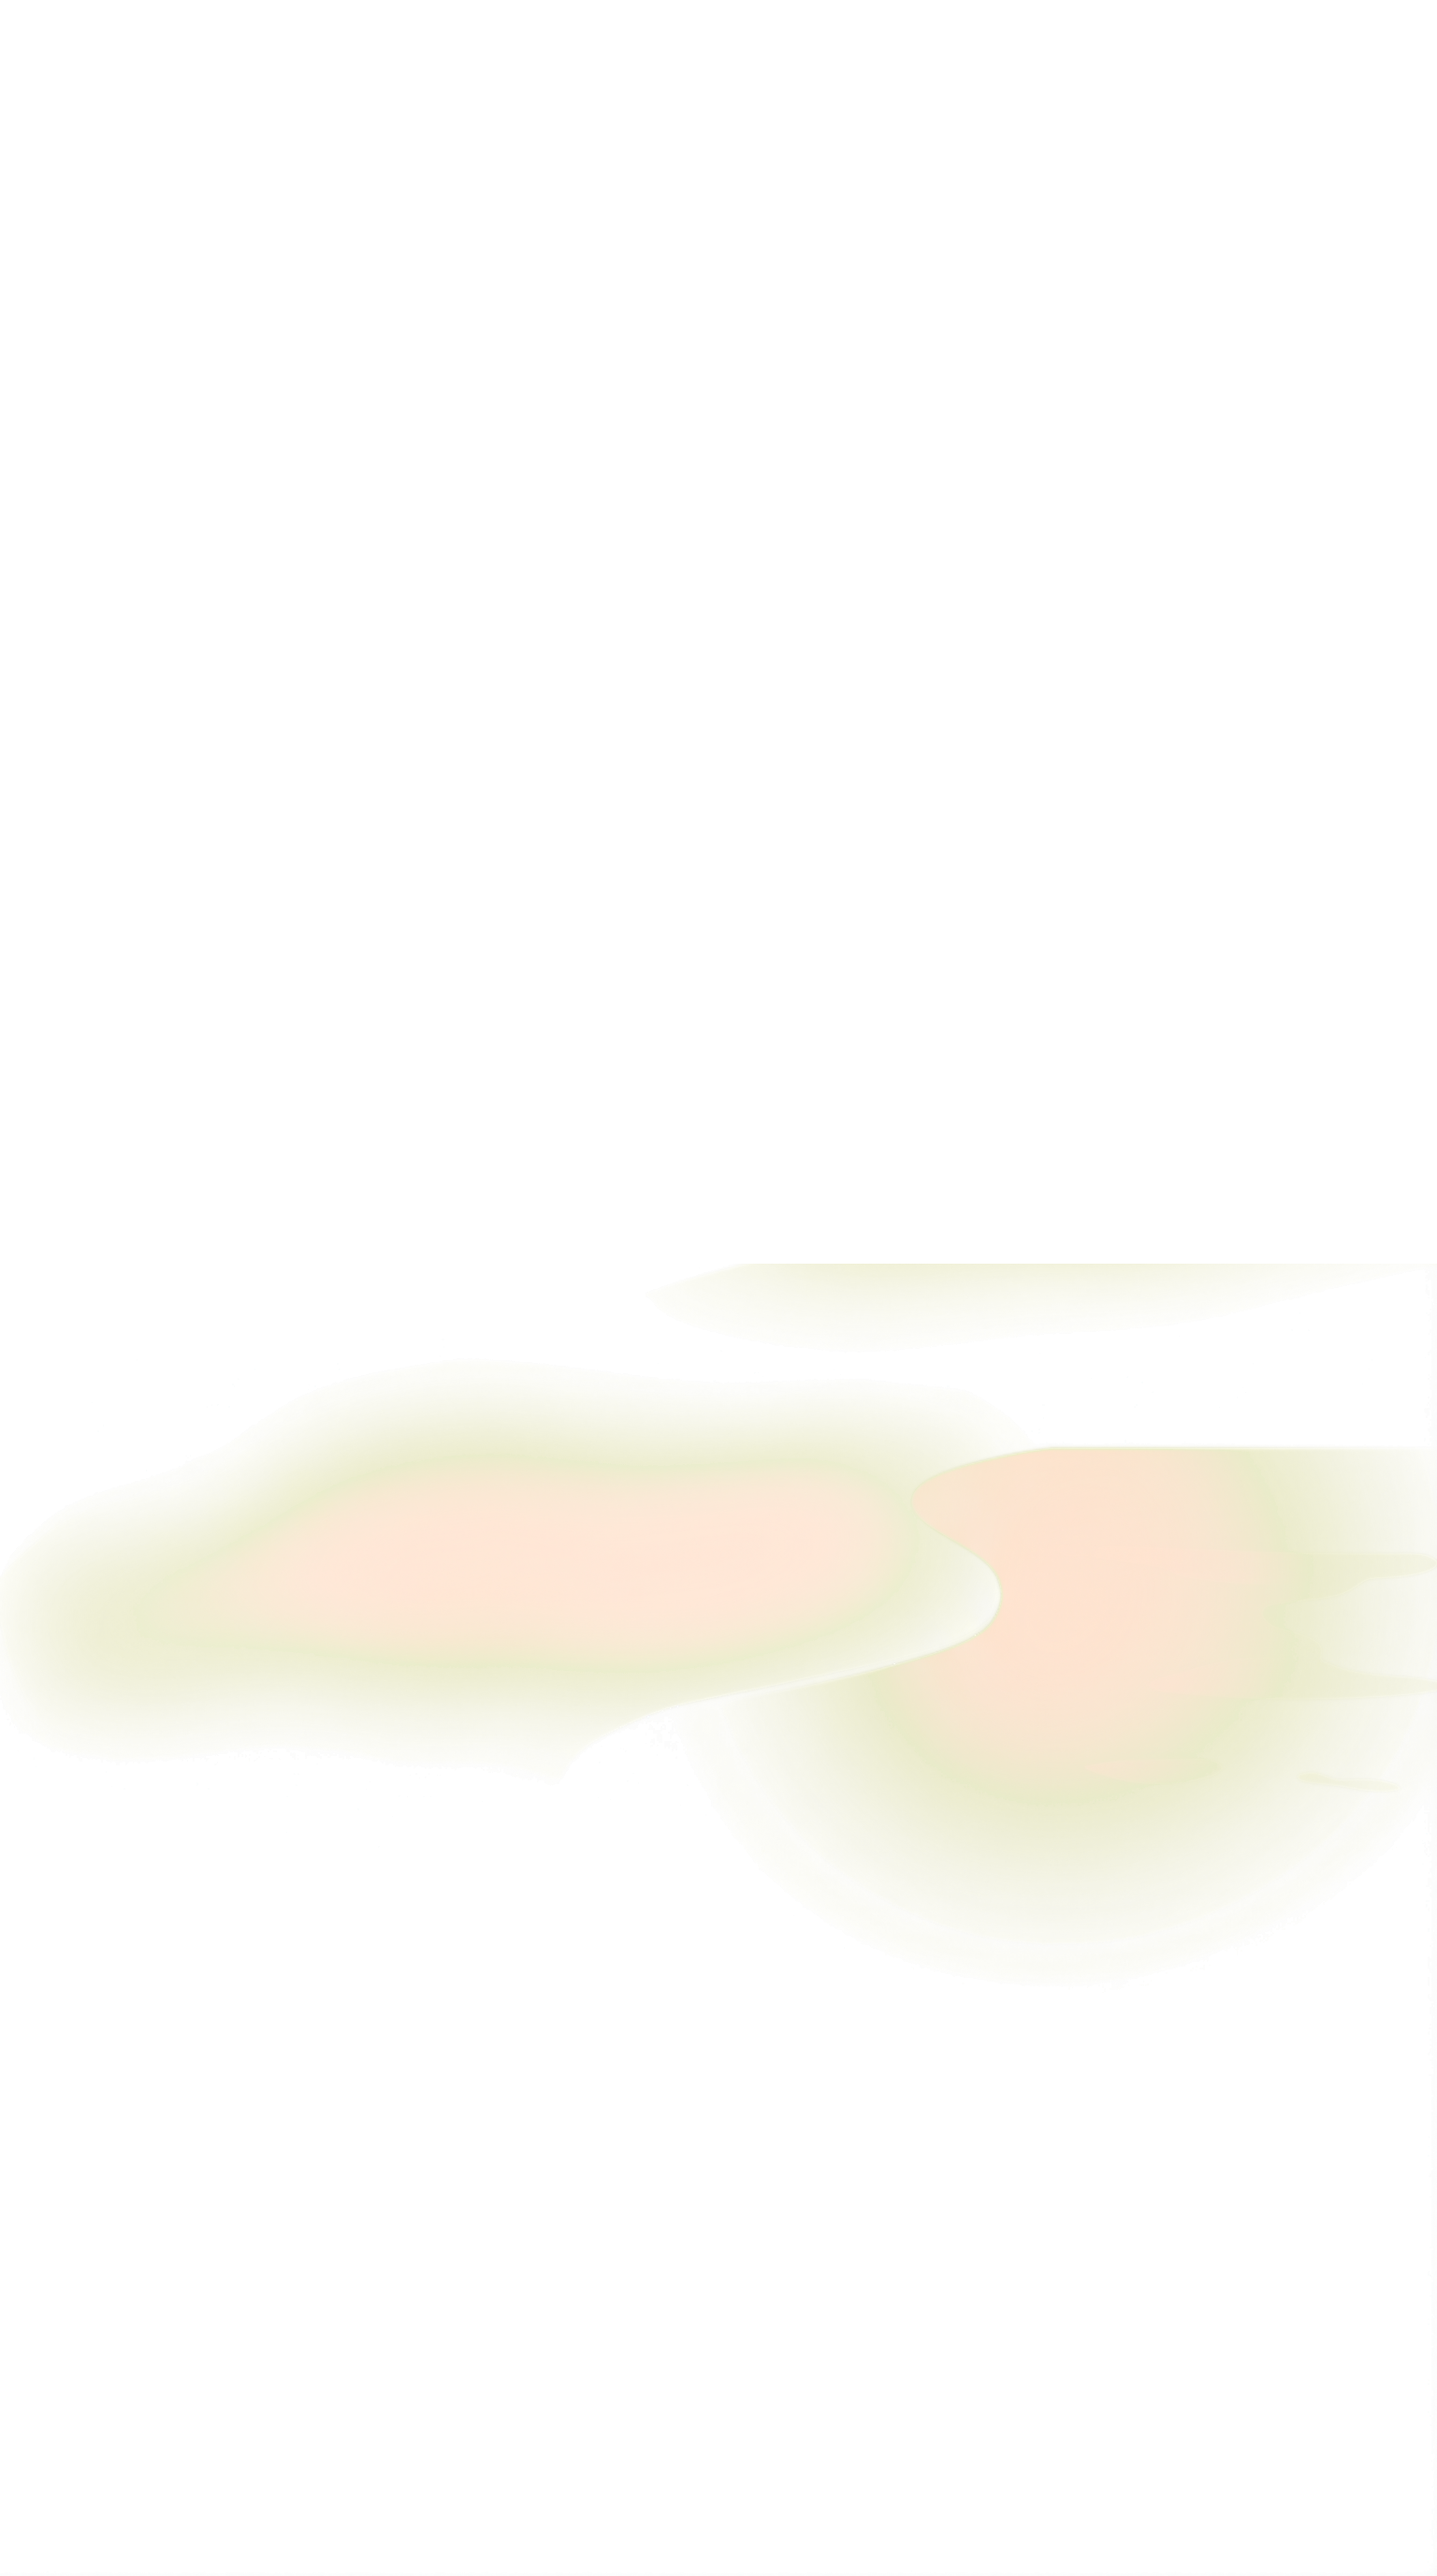
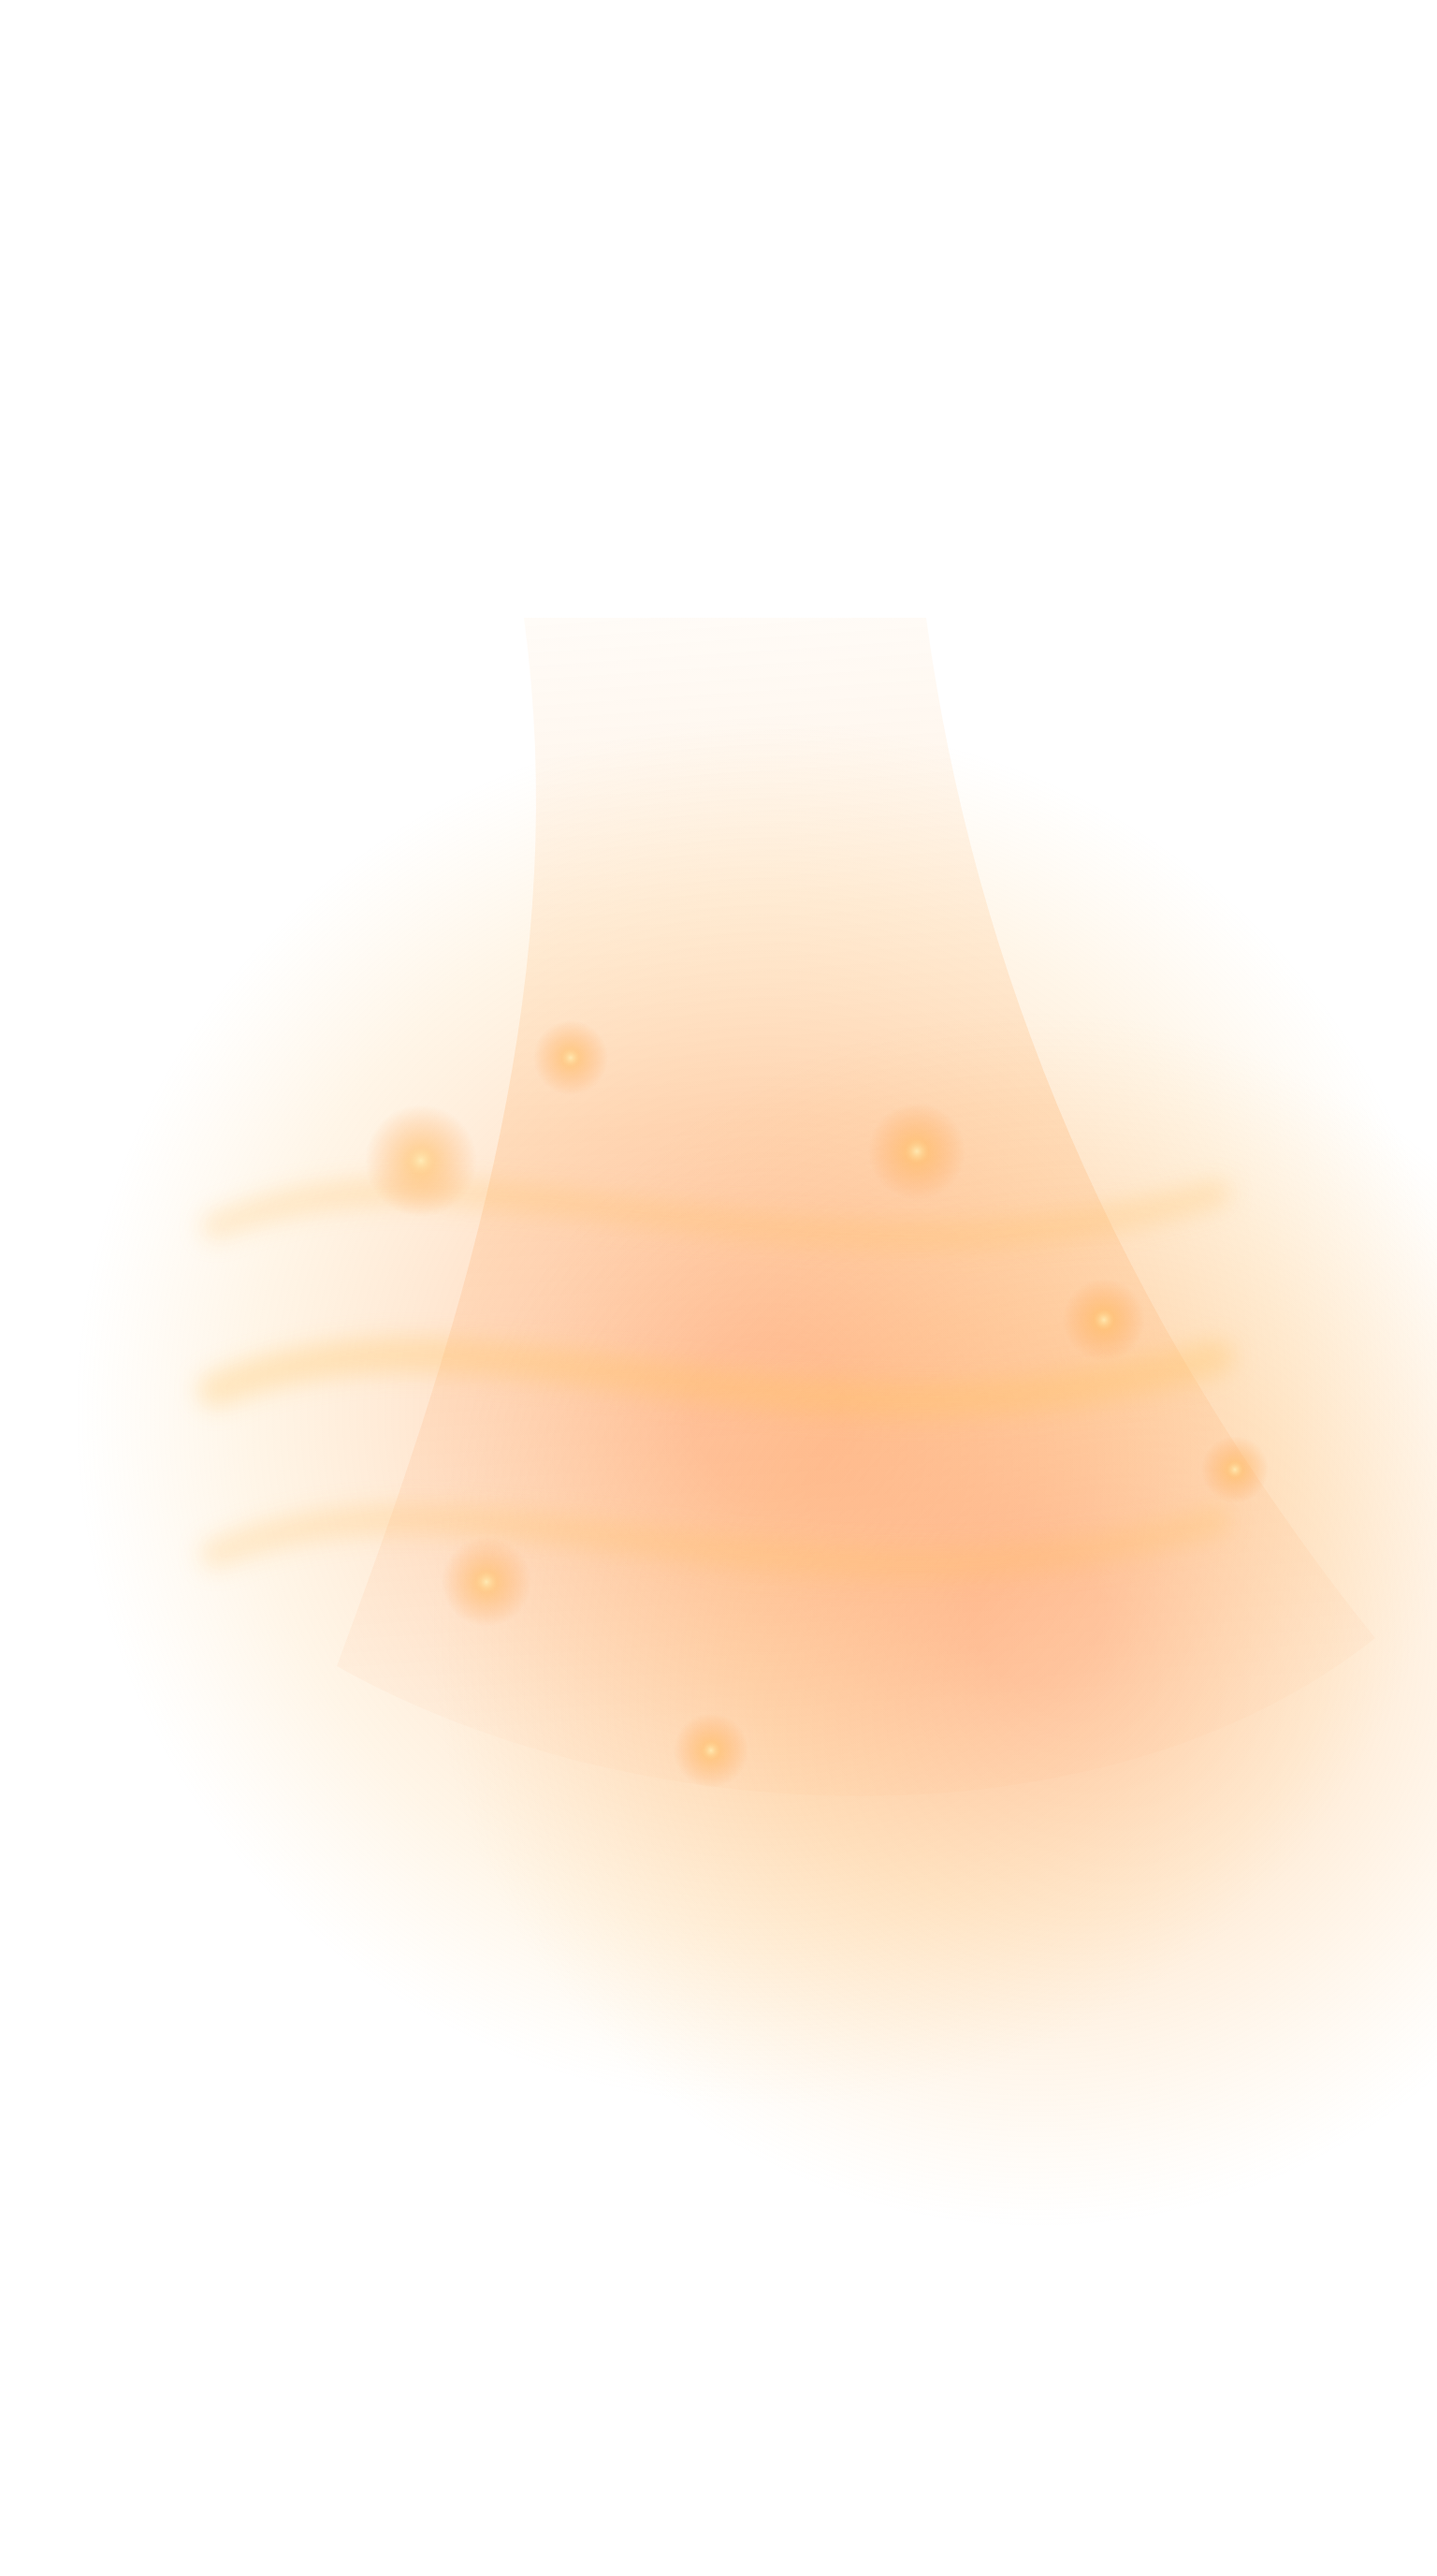
[verified] fix: distinguish natal and luck imagery

Changed region(s): [[0.125, 0.2812, 1.0, 0.8125], [0.0, 0.5938, 0.2188, 0.6875]]

diff --git a/e2e/app.spec.js b/e2e/app.spec.js
@@ -153,6 +153,33 @@ test('예시 명식은 개인 물상 이미지와 쉬운 명리 설명을 보여
   await expect(luckImage).toContainText('따뜻한 온기와 맑은 물을 받아 힘을 얻는 푸른 개')
   await expect(luckCanvas).toHaveAttribute('data-layer-count', '5')
   await expect(luckCanvas).toHaveAttribute('data-layer-ready', 'true')
+  const visualDifference = await page.evaluate(() => {
+    const natal = document.querySelector('canvas[data-layered-canvas="natal"]')
+    const luck = document.querySelector('canvas[data-layered-canvas="luck"]')
+    const width = 192
+    const height = 344
+    const sample = (source) => {
+      const canvas = document.createElement('canvas')
+      canvas.width = width
+      canvas.height = height
+      const context = canvas.getContext('2d')
+      context.drawImage(source, 0, 0, width, height)
+      return context.getImageData(0, 0, width, height).data
+    }
+    const natalPixels = sample(natal)
+    const luckPixels = sample(luck)
+    let strongDifferenceCount = 0
+    for (let index = 0; index < natalPixels.length; index += 4) {
+      const meanDelta = (
+        Math.abs(natalPixels[index] - luckPixels[index])
+        + Math.abs(natalPixels[index + 1] - luckPixels[index + 1])
+        + Math.abs(natalPixels[index + 2] - luckPixels[index + 2])
+      ) / 3
+      if (meanDelta > 32) strongDifferenceCount += 1
+    }
+    return strongDifferenceCount / (natalPixels.length / 4)
+  })
+  expect(visualDifference).toBeGreaterThanOrEqual(0.08)
   await expect(luckImage.getByRole('button', { name: '휴대폰에 이미지 저장' })).toBeVisible()
   const luckIsTwelfth = await page.evaluate(() => {
     const cycles = document.querySelector('[data-testid="luck-explorer"]')
